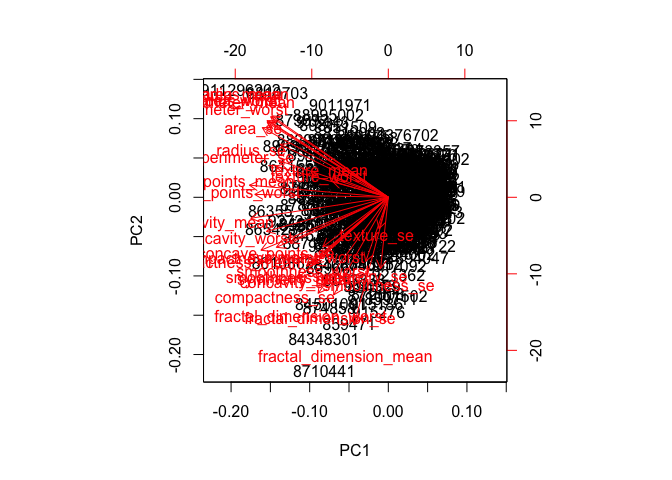
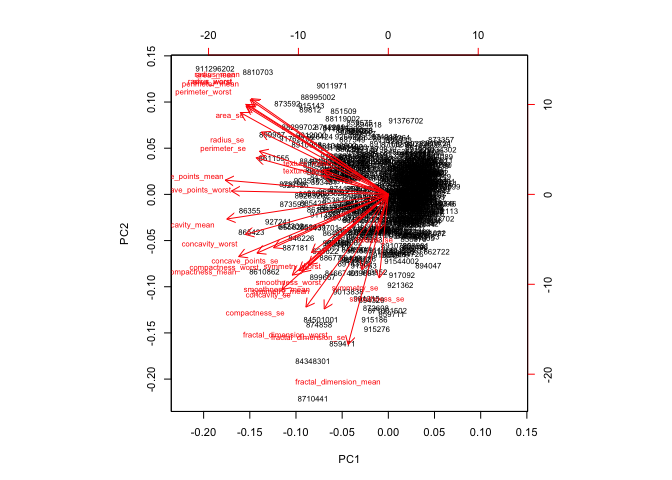
Updated Cross Validation plan

diff --git a/BreastCancer.md b/BreastCancer.md
@@ -17,8 +17,10 @@ Shravan Kuchkula
     -   [Bi-Plot](#bi-plot)
     -   [Scree plots](#scree-plots)
 -   [LDA](#lda)
--   [Splitting the dataset into training/test data](#splitting-the-dataset-into-trainingtest-data)
--   [Cross validation](#cross-validation)
+-   [Cross Validation](#cross-validation)
+    -   [Splitting the dataset into training/test data](#splitting-the-dataset-into-trainingtest-data)
+    -   [3-fold cross validation](#fold-cross-validation)
+    -   [10-fold cross validation](#fold-cross-validation-1)
 -   [Conclusion](#conclusion)
 
 Introduction
@@ -290,10 +292,16 @@ summary(wdbc.pr)
 Let's create a bi-plot to visualize this:
 
 ``` r
+cex.before <- par("cex")
+par(cex = 0.7)
 biplot(wdbc.pr)
 ```
 
 ![](BreastCancer_files/figure-markdown_github/unnamed-chunk-12-1.png)
+
+``` r
+par(cex = cex.before)
+```
 
 From the above bi-plot of PC1 vs PC2, we can see that all these variables are trending in the same direction and most of them are highly correlated (More on this .. we can visualize this in a corrplot)
 
@@ -420,8 +428,10 @@ head(wdbc.pcst)
 
 Here, diagnosis == 1 represents malignant and diagnosis == 0 represents benign.
 
-Splitting the dataset into training/test data
----------------------------------------------
+Cross Validation
+----------------
+
+### Splitting the dataset into training/test data
 
 When creating the LDA model, we can split the data into training and test data. Using the training data we can build the LDA function. Next, we use the test data to make predictions.
 
@@ -440,15 +450,15 @@ wdbc.pcst.test <- wdbc.pcst[rvec >= 0.75,]
 nrow(wdbc.pcst.train)
 ```
 
-    ## [1] 431
+    ## [1] 419
 
 ``` r
 nrow(wdbc.pcst.test)
 ```
 
-    ## [1] 138
+    ## [1] 150
 
-So, 431 observations are in training dataset and 138 observations are in the test dataset. We will use the training dataset to calculate the `linear discriminant function` by passing it to the `lda()` function of the `MASS` package.
+So, 419 observations are in training dataset and 150 observations are in the test dataset. We will use the training dataset to calculate the `linear discriminant function` by passing it to the `lda()` function of the `MASS` package.
 
 ``` r
 library(MASS)
@@ -473,20 +483,20 @@ wdbc.lda
     ## 
     ## Prior probabilities of groups:
     ##         0         1 
-    ## 0.6334107 0.3665893 
+    ## 0.6372315 0.3627685 
     ## 
     ## Group means:
-    ##         PC1        PC2        PC3        PC4         PC5
-    ## 0  2.243094 -0.3133285  0.1786345  0.1319619 -0.09898014
-    ## 1 -3.898717  0.6210776 -0.3507478 -0.2196505  0.25177802
+    ##         PC1        PC2        PC3        PC4        PC5
+    ## 0  2.158356 -0.3715593  0.1834672  0.1979268 -0.1664454
+    ## 1 -3.652319  0.6641208 -0.3777881 -0.3267553  0.2105670
     ## 
     ## Coefficients of linear discriminants:
     ##            LD1
-    ## PC1 -0.4515950
-    ## PC2  0.1556745
-    ## PC3 -0.1980461
-    ## PC4 -0.1901532
-    ## PC5  0.1697519
+    ## PC1 -0.4767508
+    ## PC2  0.1873273
+    ## PC3 -0.1902564
+    ## PC4 -0.2314241
+    ## PC5  0.1962748
 
 Let's use this to predict by passing the predict function's newdata as the testing dataset.
 
@@ -514,16 +524,14 @@ Our predictions are contained in the `class` attribute.
 (wdbc.lda.predict.class <- wdbc.lda.predict$class)
 ```
 
-    ##   [1] 1 1 1 1 1 1 0 1 1 0 0 1 0 1 0 1 1 0 0 0 0 0 0 0 0 0 0 0 1 0 0 1 0 1 1
-    ##  [36] 0 1 0 0 0 1 0 1 1 1 1 0 1 0 1 0 0 1 0 0 1 1 1 0 0 0 0 0 0 0 1 1 0 0 0
-    ##  [71] 0 0 1 0 0 0 0 1 0 0 0 1 0 0 1 1 1 0 0 1 0 1 0 0 0 0 0 1 0 0 0 0 1 1 1
-    ## [106] 0 1 1 0 1 0 0 1 0 0 0 0 0 0 0 0 1 0 0 0 0 0 0 0 0 0 0 0 0 0 0 0 0
+    ##   [1] 1 1 1 1 1 1 1 0 1 0 1 0 1 1 1 0 0 0 1 0 1 0 1 0 1 0 0 0 1 0 1 1 0 0 1
+    ##  [36] 0 0 0 1 0 1 0 0 1 0 1 0 1 0 1 1 0 0 0 0 1 1 0 0 0 1 0 1 1 0 1 0 0 1 0
+    ##  [71] 0 0 0 0 0 0 0 0 0 0 1 1 0 0 0 0 1 0 0 0 1 1 0 0 0 0 0 0 0 0 1 0 0 0 0
+    ## [106] 1 1 1 0 1 0 1 0 0 0 0 0 1 0 0 0 0 0 0 1 0 0 1 0 0 1 0 1 0 0 0 0 0 0 0
+    ## [141] 0 0 0 0 0 0 0 0 0 0
     ## Levels: 0 1
 
 Next, compare the accuracy of these predictions with the original data.
-
-Cross validation
-----------------
 
 A simple way to validate the accuracy of our model in predicting diagnosis (M or B) is to compare the test data result to the observed data. Find the proportion of the errors in prediction and see whether our model is acceptable.
 
@@ -533,12 +541,12 @@ A simple way to validate the accuracy of our model in predicting diagnosis (M or
 
     ##                       
     ## wdbc.lda.predict.class  0  1
-    ##                      0 84  7
-    ##                      1  0 47
+    ##                      0 90 10
+    ##                      1  0 50
 
-So according to this output, the model predicted 84 times that the diagnosis is 0 (benign) when the actual observation was 0 (benign) and 7 times it predicted incorrectly. Similarly, the model predicted that the diagnosis is 1 (malignant) 47 times correctly and 0 predicted incorrectly.
+So according to this output, the model predicted 90 times that the diagnosis is 0 (benign) when the actual observation was 0 (benign) and 10 times it predicted incorrectly. Similarly, the model predicted that the diagnosis is 1 (malignant) 50 times correctly and 0 predicted incorrectly.
 
-The accuracy of this model in predicting benign tumors is 0.9230769 or 92.3076923% accurate. The accuracy of this model in predicting malignant tumors is 1 or 100% accurate.
+The accuracy of this model in predicting benign tumors is 0.9 or 90% accurate. The accuracy of this model in predicting malignant tumors is 1 or 100% accurate.
 
 What is the classification accuracy of this model ?
 
@@ -547,6 +555,8 @@ What is the sensitivity of this model ?
 What is the Specificity of this model ?
 
 > Note: The above table is termed as a confusion matrix. From a confusion matrix you can calculate some measures such as: classification accuracy, sensitivity and specificity.
+
+### 3-fold cross validation
 
 We can implement a cross-validation plan using the `vtreat` package's `kWayCrossValidation` function. Syntax: kWayCrossValidation(nRows, nSplits, dframe, y)
 
@@ -569,14 +579,14 @@ str(splitPlan)
 
     ## List of 3
     ##  $ :List of 2
-    ##   ..$ train: int [1:380] 4 6 8 9 10 11 14 15 16 17 ...
-    ##   ..$ app  : int [1:189] 78 138 297 133 327 57 485 40 272 366 ...
+    ##   ..$ train: int [1:380] 2 3 6 7 8 9 10 11 12 13 ...
+    ##   ..$ app  : int [1:189] 435 279 516 191 240 64 547 27 371 285 ...
     ##  $ :List of 2
-    ##   ..$ train: int [1:379] 1 2 3 4 5 7 9 10 11 12 ...
-    ##   ..$ app  : int [1:190] 235 155 453 212 541 309 557 455 273 433 ...
+    ##   ..$ train: int [1:379] 1 2 4 5 6 7 9 10 11 12 ...
+    ##   ..$ app  : int [1:190] 106 461 65 427 39 347 296 551 154 274 ...
     ##  $ :List of 2
-    ##   ..$ train: int [1:379] 1 2 3 5 6 7 8 12 13 14 ...
-    ##   ..$ app  : int [1:190] 430 446 329 426 454 100 139 508 208 281 ...
+    ##   ..$ train: int [1:379] 1 3 4 5 8 14 15 16 17 18 ...
+    ##   ..$ app  : int [1:190] 50 515 439 276 13 565 6 490 247 105 ...
     ##  - attr(*, "splitmethod")= chr "kwaycross"
 
 Here, k is the number of folds and `splitplan` is the cross validation plan
@@ -597,16 +607,18 @@ for ( i in 1:k ) {
 
     ##    
     ##       0   1
-    ##   0 116   9
+    ##   0 120   7
+    ##   1   0  62
+    ##    
+    ##       0   1
+    ##   0 114  12
     ##   1   0  64
     ##    
     ##       0   1
-    ##   0 115  10
-    ##   1   0  65
-    ##    
-    ##       0   1
-    ##   0 125   7
-    ##   1   1  57
+    ##   0 123   5
+    ##   1   0  62
+
+### 10-fold cross validation
 
 Running a 10-fold cross validation:
 
@@ -616,7 +628,7 @@ k <- 10
 nRows <- nrow(wdbc.pcst.df)
 splitPlan <- kWayCrossValidation(nRows, 10, NULL, NULL)
 
-# Run a 3-fold cross validation plan from splitPlan
+# Run a 10-fold cross validation plan from splitPlan
 
 for ( i in 1:k ) {
   split <- splitPlan[[i]]
@@ -630,48 +642,48 @@ for ( i in 1:k ) {
 
     ##    
     ##      0  1
-    ##   0 39  2
-    ##   1  0 15
+    ##   0 31  4
+    ##   1  0 21
     ##    
     ##      0  1
-    ##   0 37  1
-    ##   1  0 19
+    ##   0 31  3
+    ##   1  0 23
+    ##    
+    ##      0  1
+    ##   0 39  2
+    ##   1  0 16
+    ##    
+    ##      0  1
+    ##   0 37  2
+    ##   1  0 18
+    ##    
+    ##      0  1
+    ##   0 33  1
+    ##   1  0 23
+    ##    
+    ##      0  1
+    ##   0 36  2
+    ##   1  1 18
+    ##    
+    ##      0  1
+    ##   0 36  4
+    ##   1  0 17
+    ##    
+    ##      0  1
+    ##   0 38  2
+    ##   1  0 17
+    ##    
+    ##      0  1
+    ##   0 40  2
+    ##   1  0 15
     ##    
     ##      0  1
     ##   0 35  6
     ##   1  0 16
-    ##    
-    ##      0  1
-    ##   0 31  1
-    ##   1  0 25
-    ##    
-    ##      0  1
-    ##   0 30  3
-    ##   1  0 24
-    ##    
-    ##      0  1
-    ##   0 39  2
-    ##   1  0 16
-    ##    
-    ##      0  1
-    ##   0 33  3
-    ##   1  1 20
-    ##    
-    ##      0  1
-    ##   0 36  1
-    ##   1  0 20
-    ##    
-    ##      0  1
-    ##   0 41  4
-    ##   1  0 12
-    ##    
-    ##      0  1
-    ##   0 35  4
-    ##   1  0 18
 
 An advanced way of validating the accuracy of our model is by using a k-fold cross-validation.
 
-When we split the data into training and test data set, we are essentially doing 1 out of sample test. However, this process is a little fragile. The presence or absence of a single outlier can greatly affect our out-of-sample RMSE (not applicable in LDA). A better approach than a simple train/test split, using multiple test sets and averaging out of sample error - which gives us a more precise estimate of the true out of sample error. One of the most common approaches for multiple test sets is Cross Validation.
+When we split the data into training and test data set, we are essentially doing 1 out of sample test. However, this process is a little fragile. A better approach than a simple train/test split, using multiple test sets and averaging out of sample error - which gives us a more precise estimate of the true out of sample error. One of the most common approaches for multiple test sets is Cross Validation.
 
 Conclusion
 ----------
